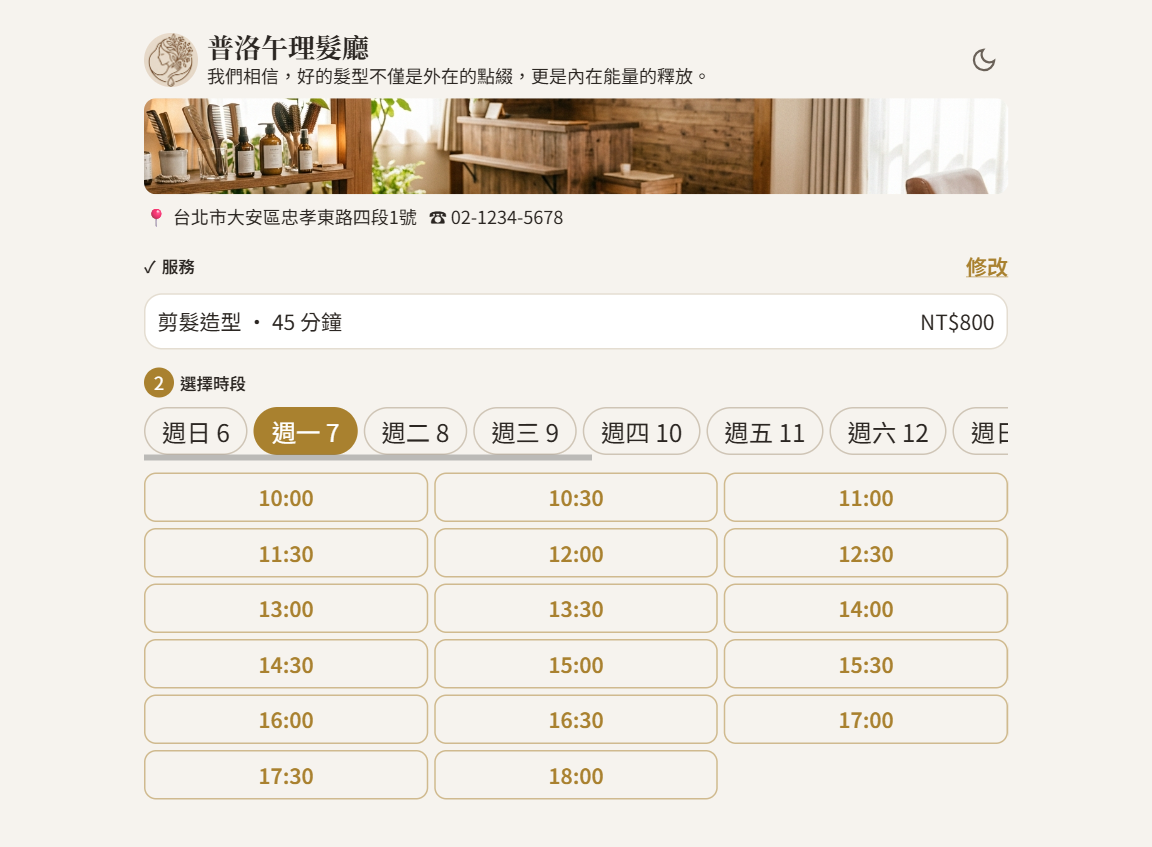
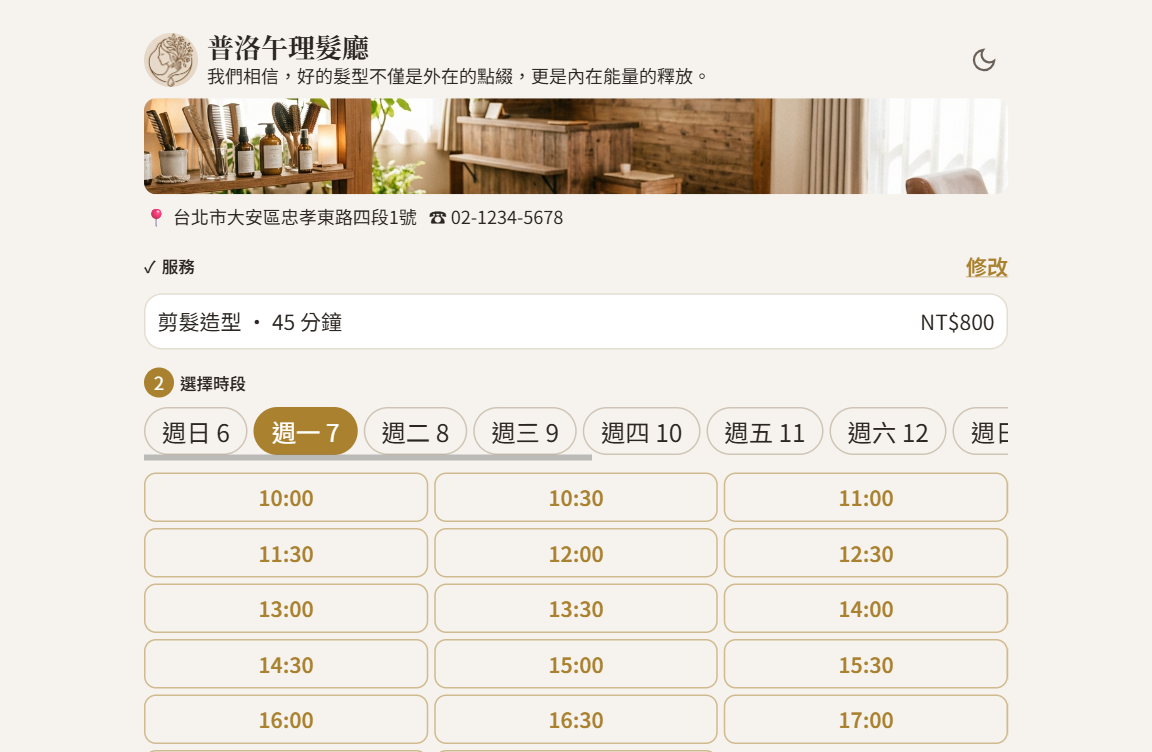
新增截圖畫面

Changed region(s): [[0.125, 0.0306, 0.875, 1.0], [0.7812, 0.1835, 0.875, 0.2753], [0.8438, 0.0612, 0.875, 0.0918]]

diff --git a/README.md b/README.md
@@ -1,16 +1,16 @@
 <div align="center">
 
-  # 理髮廳線上預約系統
+# 理髮廳線上預約系統
 
-  從瀏覽服務、挑時段到自動寄出確認信與提醒信，顧客自助完成預約；設計師在後台一站管理預約、營業時間與店家資訊。
+從瀏覽服務、挑時段到自動寄出確認信與提醒信，顧客自助完成預約；設計師在後台一站管理預約、營業時間與店家資訊。
 
-  [![License: MIT](https://img.shields.io/badge/license-MIT-c17a3d.svg)](LICENSE)
-  [![Built with Next.js](https://img.shields.io/badge/Next.js-16-000000.svg)](https://nextjs.org)
-  [![TypeScript](https://img.shields.io/badge/TypeScript-strict-3178c6.svg)](https://www.typescriptlang.org/)
-  [![Supabase](https://img.shields.io/badge/Supabase-Postgres%20%2B%20RLS-3ecf8e.svg)](https://supabase.com)
-  [![Deployed on Vercel](https://img.shields.io/badge/deployed-Vercel-000000.svg)](https://vercel.com)
+[![License: MIT](https://img.shields.io/badge/license-MIT-c17a3d.svg)](LICENSE)
+[![Built with Next.js](https://img.shields.io/badge/Next.js-16-000000.svg)](https://nextjs.org)
+[![TypeScript](https://img.shields.io/badge/TypeScript-strict-3178c6.svg)](https://www.typescriptlang.org/)
+[![Supabase](https://img.shields.io/badge/Supabase-Postgres%20%2B%20RLS-3ecf8e.svg)](https://supabase.com)
+[![Deployed on Vercel](https://img.shields.io/badge/deployed-Vercel-000000.svg)](https://vercel.com)
 
-  [線上體驗](https://pro5-nu.vercel.app) · [回報問題](https://github.com/zoewang7512/pro5/issues)
+[線上體驗](https://pro5-nu.vercel.app) · [回報問題](https://github.com/zoewang7512/pro5/issues)
 
 </div>
 
@@ -32,23 +32,31 @@
 
 **顧客前台**
 
-| 選擇服務與時段 | 預約成功 |
-|---|---|
-| ![顧客前台：選擇服務與時段](docs/screenshots/customer-booking.png) | ![顧客前台：預約成功頁](docs/screenshots/booking-success.png) |
+| 選擇服務與時段                                                                     | 預約成功                                                                      |
+| ---------------------------------------------------------------------------------- | ----------------------------------------------------------------------------- |
+| <img src="docs/screenshots/customer-booking.png" alt="顧客前台：選擇服務與時段" /> | <img src="docs/screenshots/booking-success.png" alt="顧客前台：預約成功頁" /> |
+
+| 預約成立後的 Email 確認信                                                                    |
+| -------------------------------------------------------------------------------------------- |
+| <img src="docs/screenshots/email-confirmation.png" alt="顧客前台：預約成功信" width="50%" /> |
 
 **設計師後台**
 
-| 預約管理週曆 | 營業時間設定 |
-|---|---|
-| ![設計師後台：預約管理週曆](docs/screenshots/admin-dashboard.png) | ![設計師後台：營業時間設定](docs/screenshots/business-hours.png) |
+| 預約管理週曆                                                      | 服務項目設定                                                       |
+| ----------------------------------------------------------------- | ------------------------------------------------------------------ |
+| ![設計師後台：預約管理週曆](docs/screenshots/admin-dashboard.png) | ![設計師後台：服務項目設定](docs/screenshots/service-settings.png) |
 
-<p align="center">
-  <img src="docs/screenshots/sidebar-light-dark.png" alt="後台 Sidebar：圖示化導覽 + 明暗模式對照" width="80%" />
-</p>
+| 營業時間設定                                                     | 預約規則設定                                                    |
+| ---------------------------------------------------------------- | --------------------------------------------------------------- |
+| ![設計師後台：營業時間設定](docs/screenshots/business-hours.png) | ![設計師後台：預約規則設定](docs/screenshots/booking-rules.png) |
 
-<p align="center">
-  <img src="docs/screenshots/email-confirmation.png" alt="預約成立後的 Email 確認信" width="60%" />
-</p>
+| 商店設定                                                     | 帳戶設定                                                       |
+| ------------------------------------------------------------ | -------------------------------------------------------------- |
+| ![設計師後台：商店設定](docs/screenshots/store-settings.png) | ![設計師後台：帳戶設定](docs/screenshots/account-settings.png) |
+
+| dark mode                                                | light mode                                                 |
+| -------------------------------------------------------- | ---------------------------------------------------------- |
+| ![設計師後台：dark mode](docs/screenshots/dark-mode.png) | ![設計師後台：light mode](docs/screenshots/light-mode.png) |
 
 ## 功能特色
 
@@ -109,15 +117,15 @@
 
 ## 技術棧
 
-| 分類 | 技術 |
-| --- | --- |
+| 分類       | 技術                                                                                       |
+| ---------- | ------------------------------------------------------------------------------------------ |
 | 前端／後端 | Next.js 16（App Router + TypeScript，strict）、React 19、Server Components／Server Actions |
-| UI | Material UI（MUI） |
-| 資料庫 | Supabase Postgres，啟用 RLS，schema 見 `supabase/migrations/` |
-| Email | [Resend](https://resend.com/)（確認信、通知信、提醒信） |
-| 排程 | Vercel Cron（預約前 24 小時提醒信） |
-| 測試 | Vitest、Testing Library（單元測試 + 對真實 Supabase 專案的整合測試） |
-| 部署 | Vercel |
+| UI         | Material UI（MUI）                                                                         |
+| 資料庫     | Supabase Postgres，啟用 RLS，schema 見 `supabase/migrations/`                              |
+| Email      | [Resend](https://resend.com/)（確認信、通知信、提醒信）                                    |
+| 排程       | Vercel Cron（預約前 24 小時提醒信）                                                        |
+| 測試       | Vitest、Testing Library（單元測試 + 對真實 Supabase 專案的整合測試）                       |
+| 部署       | Vercel                                                                                     |
 
 ## 本機開發
 
@@ -157,32 +165,32 @@ npm run dev
 
 `.env.local` 已加入 `.gitignore`；**真實金鑰只存放在 Vercel 專案的環境變數設定，絕不提交進版控**。
 
-| 變數 | 用途 | 是否可暴露於前端 |
-| --- | --- | --- |
-| `NEXT_PUBLIC_SUPABASE_URL` | Supabase 專案網址 | 是 |
-| `NEXT_PUBLIC_SUPABASE_ANON_KEY` | Supabase 匿名金鑰，受 RLS 規則限制 | 是 |
-| `SUPABASE_SERVICE_ROLE_KEY` | Supabase 具完整權限的服務金鑰，僅限伺服器端程式碼使用 | **否，絕不可** |
-| `EMAIL_API_KEY` | Resend 私密金鑰，用於寄送確認信／取消改期通知信／提醒信 | 否 |
-| `EMAIL_FROM_ADDRESS` | 通知信寄件人地址，須為 Resend 已驗證網域下的地址 | 否 |
-| `NEXT_PUBLIC_SITE_URL` | 對外基底網址，用於組出 email 中的預約連結 | 是 |
-| `SUPABASE_WEBHOOK_SECRET` | 驗證 Supabase Database Webhook 呼叫通知信 API 路由的共用密鑰 | 否 |
-| `CRON_SECRET` | 驗證 Vercel Cron 呼叫預約提醒信 API 路由的共用密鑰 | 否 |
-| `DESIGNER_EMAIL`／`DESIGNER_PASSWORD` | 本機 seed script／整合測試用的設計師帳號，非 app 執行期讀取的變數 | 否 |
+| 變數                                  | 用途                                                              | 是否可暴露於前端 |
+| ------------------------------------- | ----------------------------------------------------------------- | ---------------- |
+| `NEXT_PUBLIC_SUPABASE_URL`            | Supabase 專案網址                                                 | 是               |
+| `NEXT_PUBLIC_SUPABASE_ANON_KEY`       | Supabase 匿名金鑰，受 RLS 規則限制                                | 是               |
+| `SUPABASE_SERVICE_ROLE_KEY`           | Supabase 具完整權限的服務金鑰，僅限伺服器端程式碼使用             | **否，絕不可**   |
+| `EMAIL_API_KEY`                       | Resend 私密金鑰，用於寄送確認信／取消改期通知信／提醒信           | 否               |
+| `EMAIL_FROM_ADDRESS`                  | 通知信寄件人地址，須為 Resend 已驗證網域下的地址                  | 否               |
+| `NEXT_PUBLIC_SITE_URL`                | 對外基底網址，用於組出 email 中的預約連結                         | 是               |
+| `SUPABASE_WEBHOOK_SECRET`             | 驗證 Supabase Database Webhook 呼叫通知信 API 路由的共用密鑰      | 否               |
+| `CRON_SECRET`                         | 驗證 Vercel Cron 呼叫預約提醒信 API 路由的共用密鑰                | 否               |
+| `DESIGNER_EMAIL`／`DESIGNER_PASSWORD` | 本機 seed script／整合測試用的設計師帳號，非 app 執行期讀取的變數 | 否               |
 
 ## 可用指令
 
-| 指令 | 用途 |
-| --- | --- |
-| `npm install` | 安裝相依套件 |
-| `npm run dev` | 啟動本機開發伺服器（<http://localhost:3000>） |
-| `npm run build` | 建置正式環境版本 |
-| `npm start` | 啟動已建置版本 |
-| `npm run lint` | 執行 ESLint |
-| `npx tsc --noEmit` | TypeScript 型別檢查 |
-| `npm test` | 執行單元測試（Vitest） |
+| 指令                      | 用途                                                                      |
+| ------------------------- | ------------------------------------------------------------------------- |
+| `npm install`             | 安裝相依套件                                                              |
+| `npm run dev`             | 啟動本機開發伺服器（<http://localhost:3000>）                             |
+| `npm run build`           | 建置正式環境版本                                                          |
+| `npm start`               | 啟動已建置版本                                                            |
+| `npm run lint`            | 執行 ESLint                                                               |
+| `npx tsc --noEmit`        | TypeScript 型別檢查                                                       |
+| `npm test`                | 執行單元測試（Vitest）                                                    |
 | `npm run test:booking` 等 | 對真實 Supabase 專案執行的整合測試，完整清單見 `package.json` 的 `test:*` |
-| `npm run seed:booking` | 種入服務項目／營業時間最小可行資料（冪等） |
-| `npm run kanban` | 啟動本機治理看板（<http://127.0.0.1:4420>） |
+| `npm run seed:booking`    | 種入服務項目／營業時間最小可行資料（冪等）                                |
+| `npm run kanban`          | 啟動本機治理看板（<http://127.0.0.1:4420>）                               |
 
 ## 專案架構
 
